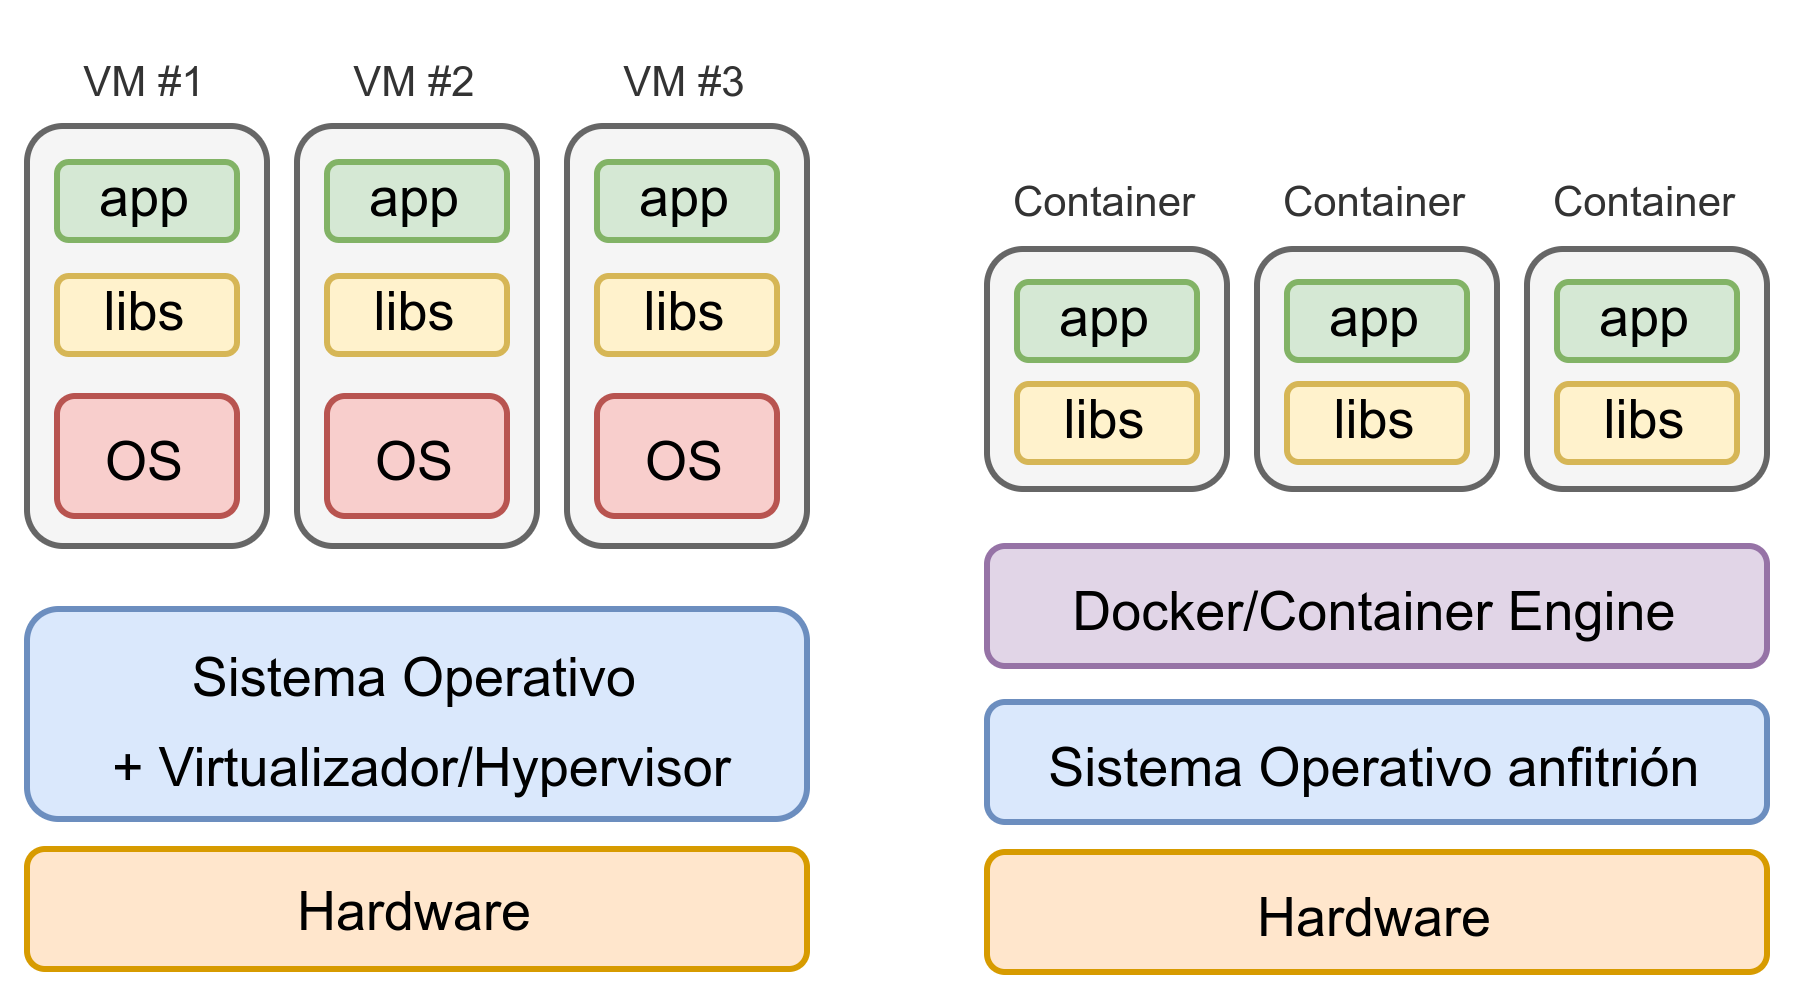
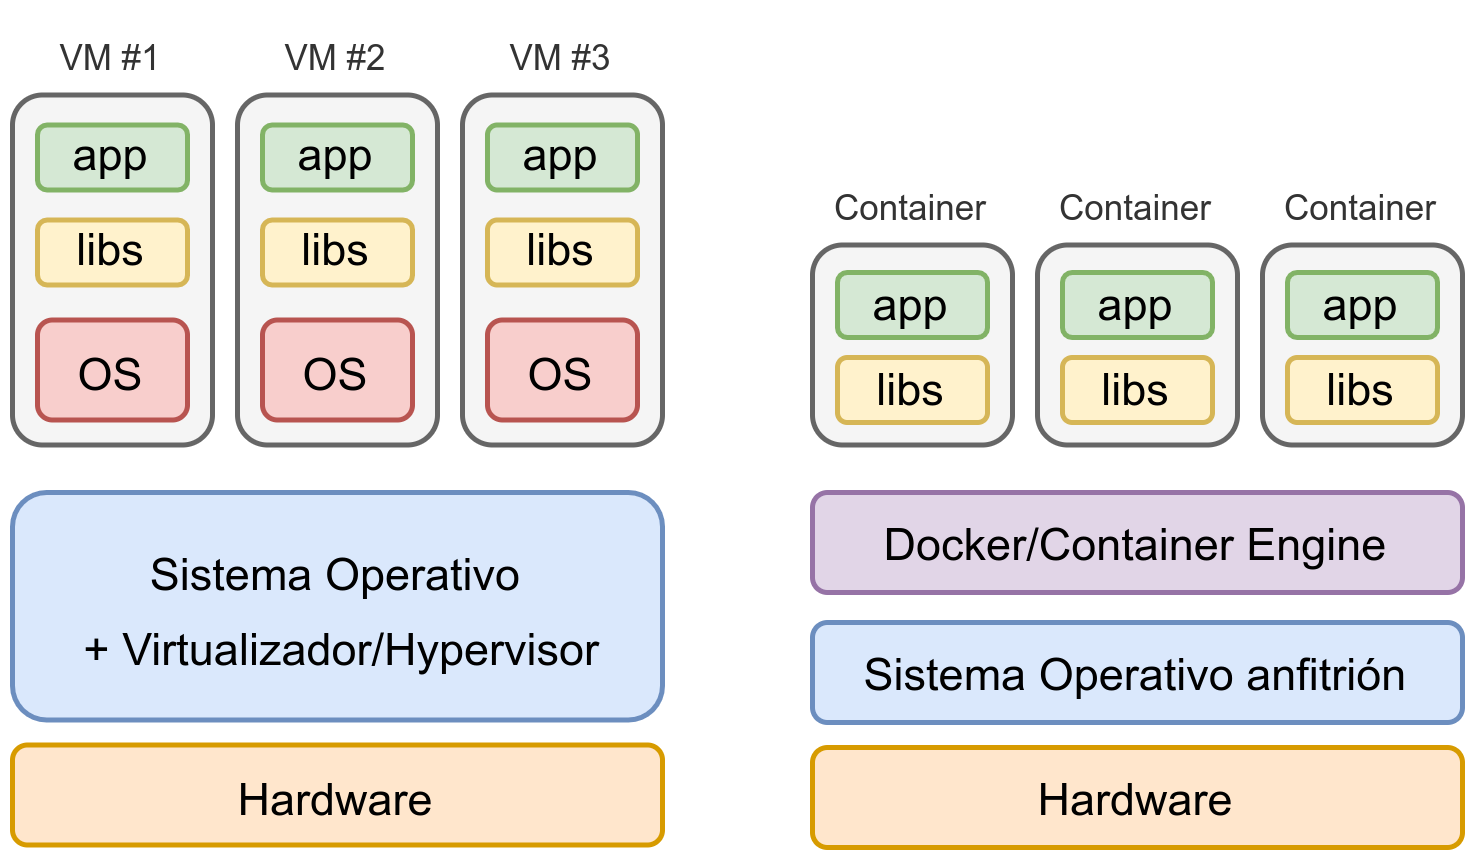
[Docker] Más libro
Añadido más apartados

diff --git a/otros/Docker/docker.tex b/otros/Docker/docker.tex
@@ -1,16 +1,16 @@
 \chapter{Introducción}
 
-Hoy en día es muy habitual hacer uso de un sistema de contenedores, como es \href{https://docs.docker.com/}{Docker}, en el mundo del desarrollo de \textit{software}. Este sistema trae consigo una serie de ventajas que veremos más adelante, que nos permite asegurar, entre otras cosas, que las versiones utilizadas en el entorno de producción es la misma que durante las etapas de desarrollo.
+Hoy en día es muy habitual hacer uso de los sistemas de contenedores, el más conocido es \href{https://docs.docker.com/}{Docker}, en el mundo del desarrollo de \textit{software}. Este sistema trae consigo una serie de ventajas que veremos más adelante, que nos permite asegurar, entre otras cosas, que las versiones utilizadas en el entorno de producción son las mismas que durante las etapas de desarrollo.
 
 En este documento se va a explicar cómo realizar la instalación y configuración de un sistema basado en contenedores Docker para poder arrancar servicios, y ciertas configuraciones que son necesarias conocer.
 
 \chapter{Sistemas de contenedores}
 
-Los sistemas de contenedores son un método de virtualización (conocido como “virtualización a nivel de sistema operativo”), en el que se permite ejecutar sobre una capa virtualizadora del núcleo del sistema operativo, distintas instancias de “espacio de usuario”.
+Los sistemas de contenedores son un método de virtualización (conocido como “virtualización a nivel de sistema operativo”), en el que se permite ejecutar sobre una capa virtualizadora del núcleo del sistema operativo distintas instancias de “espacio de usuario”.
 
 Este “espacio de usuario” (donde se ejecutarán aplicaciones, servicios...) se les denomina \textbf{contenedores}, y aunque pueden ser como un servidor real, están bajo un mecanismo de aislamiento proporcionado por el \textit{kernel} del sistema operativo, y sobre el que se pueden aplicar límites de espacio, recursos de memoria, de acceso a disco...
 
-\infobox{Un contenedor es un espacio de ejecución de servicios al que se les puede aplicar límites de recursos (como la memoria, el acceso a disco...)}
+\infobox{\textbf{Un contenedor es un espacio de ejecución de servicios al que se les puede aplicar límites de recursos (como la memoria, el acceso a disco...)}}
 
 Desde el punto de vista del usuario, que un servicio se ejecute en una máquina virtual o en un contenedor es indistinguible. En cambio, desde el punto de vista de un administrador de sistemas o de un desarrollador, el uso de contenedores trae consigo una serie de ventajas que veremos en apartados posteriores.
 
@@ -25,6 +25,56 @@ Aunque está muy en boga el despliegue de aplicaciones haciendo uso de contenedo
 Ha habido otras tecnologías en Linux, como \href{https://es.wikipedia.org/wiki/OpenVZ}{OpenVz}, pero luego nos centraremos en Docker, ya que es lo más conocido actualmente.
 
 
+\section{Qué es un contenedor y cómo se crea}
+
+Para entender qué es un contenedor y cómo se crea, tenemos que diferenciar distintos conceptos:
+\begin{itemize}
+    \item \textbf{Imagen Docker}
+    \item \textbf{Contenedor Docker}
+\end{itemize}
+
+A continuación se van a detallar en profundidad.
+
+\subsection{Imágenes Docker}
+
+Para crear un contenedor necesitamos hacer uso de una \textbf{“imagen”, que es un archivo inmutable (no modificable) que contiene el código de la aplicación que queremos ejecutar y todas sus dependencias necesarias}, para que pueda ser ejecutada de manera rápida y confiable independientemente del entorno en el que se encuentre.
+
+Las imágenes, debido a su origen \textbf{sólo-lectura}, se pueden considerar como \textbf{“plantillas”}, que son la representación de una aplicación y el entorno necesario para ser ejecutada en un momento específico en el tiempo. \textbf{Esta consistencia es una de las grandes características de Docker}.
+
+\infobox{\textbf{Una imagen contiene el código y las dependencias que se necesita al crear un contenedor para ser ejecutado, independientemente del entorno en el que es ejecutado.}}
+
+Una imagen puede ser creada utilizando otras imágenes como base. Por ejemplo, la imagen de \href{https://hub.docker.com/_/phpmyadmin}{PHPMyAdmin} empaqueta la aplicación PHPMyAdmin sobre la imagen \textbf{PHP} (versión 8.1-apache), que a su vez hace uso de la imagen \textbf{Debian} (versión 11-slim).
+
+
+\begin{center}
+    \includegraphics[width=0.9\linewidth]{img/docker/imagen1.png}
+    \captionof{figure}{Jerarquía de imágenes usadas por PHPMyAdmin. \href{https://hub.docker.com/layers/library/phpmyadmin/latest/images/sha256-79e38dd8b2ab0e92505aa92040fa49dce4fa921a977b6ce4d030a63b4f120009?context=explore}{Fuente}}
+\end{center}
+
+Podemos utilizar imágenes públicas descargadas a través de un \textbf{\textit{registry}} público, que no es otra cosa que un repositorio de imágenes subidas por la comunidad. El \textit{registry} principal más utilizado es \href{https://hub.docker.com/}{Docker Hub}.
+
+\infobox{\textbf{Las imágenes Docker  pueden ser públicas o privadas y se almacenan en un repositorio llamado \underline{registry}, siendo el más conocido Docker Hub}}
+
+\textbf{Se pueden crear nuestras propias imágenes privadas}, que pueden ser almacenadas en nuestros equipos o a través de un \textbf{registry privado} que podemos crear (también existen servicios de pago que nos dan esta posibilidad).
+
+
+\subsection{Contenedores Docker}
+Un contenedor Docker es un \textbf{entorno de tiempo de ejecución virtualizado donde los usuarios pueden aislar aplicaciones}. Estos contenedores son unidades compactas y portátiles a las que se les puede aplicar un sistema de limitación de recursos.
+
+\infobox{\textbf{Un contenedor se crea a través de una imagen, es la versión ejecutable de la misma que se crea en un entorno virtualizado}}
+
+Un contenedor se crea a través de una imagen y es la versión ejecutable de la misma. Lo que se hace es crear una capa de escritura sobre la imagen inmutable, donde se podrá escribir datos. Se pueden crear un número ilimitados de contenedores haciendo uso de la misma imagen base.
+
+\vspace{-15pt}
+\begin{center}
+    \includegraphics[width=0.6\linewidth]{img/docker/contenedor.png}
+    \captionof{figure}{Imagen “interna” de un contenedor}
+\end{center}
+\vspace{-15pt}
+
+Más adelante se detallará el \hyperlink{ciclo_de_vida_contenedor}{ciclo de vida de un contenedor} y cómo esa capa de escritura se pierde al eliminar el contenedor. Se puede hacer que esos datos no se pierdan utilizando \hyperlink{volumen_persistente_datos}{un volumen persistente de datos}.
+
+
 \section{Contenedores vs. Máquinas virtuales}
 
 El uso de máquinas virtuales está muy extendido gracias a que cada vez es más sencillo crearlas. Esto no quiere decir que siempre sea la mejor opción, por lo que  se va a realizar una comparativa teniendo en cuenta distintos aspectos a la hora de realizar un desarrollo con máquinas virtuales y con sistemas de contenedores.
@@ -34,12 +84,14 @@ El uso de máquinas virtuales está muy extendido gracias a que cada vez es más
 
 La creación de máquinas virtuales (a través de sistemas como VirtualBox) nos permite crear entornos aislados en los que poder instalar el Sistema Operativo que más nos interese y con ello poder instalar el software y los servicios que necesitemos.
 
-Esto supone una gran ventaja, pero a la vez un gasto de recursos que podríamos utilizar para hacer uso en los servicios que queremos correr.
+Las máquinas virtuales se virtualizan a nivel de hardware, donde debe existir un Sistema Operativo con Hypervisor que permita dicha virtualización. Por otro lado, los contenedores se virtualizan en la capa de aplicación, haciendo que este sistema sea mucho más ligero, permitiendo utilizar esos recursos en los servicios que necesitamos hacer funcionar dentro de los contenedores.
 
+\vspace{-15pt}
 \begin{center}
-    \includegraphics[width=0.9\linewidth]{img/docker/docker\_vs\_vm.png}
+    \includegraphics[width=0.85\linewidth]{img/docker/docker\_vs\_vm.png}
     \captionof{figure}{Infraestructura Máquinas Virtuales vs Docker}
 \end{center}
+\vspace{-15pt}
 
 
 En la imagen se puede apreciar una comparativa diferenciando cómo quedaría una infraestructura de 3 aplicaciones levantadas en distintas máquinas virtuales o en distintos contenedores.
@@ -86,7 +138,7 @@ En un entorno con contenedores, al igual que se ha comentado antes, esto no es p
 
 Ligado a todo lo anterior, realizar el despliegue de un entorno de desarrollo/producción es más rápido utilizando contenedores, dando igual el sistema operativo en el que nos encontremos.
 
-\infobox{El despliegue con contenedores es más rápido.}
+\infobox{\textbf{El despliegue con contenedores es más rápido.}}
 
 Más adelante se verá cómo realizar el despliegue de distintos servicios haciendo uso de un único comando.
 
@@ -111,7 +163,7 @@ Al igual que sucede con otro tipo de \textit{software},  para que Docker haga us
 
 
 \begin{center}
-    \includegraphics[width=0.6\linewidth]{img/docker/docker_interfaces.png}
+    \includegraphics[width=0.75\linewidth]{img/docker/docker_interfaces.png}
     \captionof{figure}{Tecnologías usadas por Docker. Fuente: \href{https://en.wikipedia.org/wiki/File:Docker-linux-interfaces.svg}{Wikipedia}}
 \end{center}
 
@@ -212,9 +264,6 @@ Y para entender lo que hace el comando, los parámetros son:
     \item \textbf{docker}: cliente de consola para hacer uso de Docker
     \item \textbf{run}: Ejecuta un comando en un nuevo contenedor
     \item \textbf{-p 80:80}: Publica en el puerto 80 del servidor el puerto 80 utilizado en el contenedor. Se puede pensar que es como hacer un \textbf{port-forward} en un firewall.
-    \begin{itemize}
-        \item Si fuese \textbf{-p 8080:80}, publicaría en el puerto 8080 del equipo el puerto 80 del contenedor.
-    \end{itemize}
     \item \textbf{httpd}: es la imagen del contenedor que se va a arrancar. En este caso, la imagen del servidor \href{https://hub.docker.com/_/httpd}{Apache HTTPD}.
 \end{itemize}
 
@@ -226,8 +275,10 @@ CONTAINER ID   IMAGE     COMMAND       CREATED         STATUS         PORTS     
 a1c3362b0d6c   httpd     "httpd-..."   3 seconds ago   Up 2 seconds   0.0.0.0:80->80/tcp  great
 \end{mycode}
 
+En la columna PORTS se puede apreciar cómo aparece que se ha levantado el puerto  \textbf{ \texttt{0.0.0.0:80} } (escucha en el puerto 80 para cualquier IP del sistema operativo) que es una redirección al puerto \textbf{\texttt{80/TCP}} interno del contenedor.
 
-\section{Contenedores en \textit{background} y con más opciones}
+
+\section{Contenedores en \textit{background} y más opciones}
 Tal como se puede ver en el ejemplo anterior, el contenedor se queda en primer plano, viendo los logs del Apache. Esto para ver qué es lo que está sucendiendo durante el desarrollo puede ser útil, pero lo ideal es que el contenedor arranque en modo \textbf{\textit{background}}, y cuando necesitemos vayamos a ver los logs.
 
 
@@ -246,11 +297,38 @@ root@vega:~# docker run --name mi-apache -d -p 8080:80 httpd
 \end{itemize}
 
 
-\section{Ciclo de vida de un contenedor}
-
+\hypertarget{volumen_persistente_datos}{}
 \section{Volumen persistente de datos}
+Hasta ahora hemos levantado un contenedor a través de una imagen que levanta el servicio Apache, mostrando su página por defecto. Podríamos escribir en el contenedor la página HTML que nos interesase, pero hay que entender que \textbf{los datos de un contenedor desaparecen cuando el contenedor se elimina}.
+
+Para que los cambios realizados dentro de un contenedor se mantengan, tenemos que hacer uso de los denominados \textbf{volúmenes de datos}. Esto no es más que hacer un montaje de una ruta del disco duro del sistema operativo dentro de una ruta del contenedor.
 
 
-\section{Dónde obtener servicios Docker}
+Estos volúmenes que le asignamos al contenedor pueden ser de dos tipos:
+\begin{itemize}
+    \item \textbf{Sólo lectura}: Nos puede interesar asignar un volumen de sólo lectura cuando le pasamos ficheros de configuración o la propia web que queremos visualizar.
+    \item \textbf{Lectura-Escritura}: En este caso se podrá escribir en el volumen. Por ejemplo, directorio donde una base de datos guarda la información o una web donde deja imágenes subidas por usuarios.
+\end{itemize}
+
+De esta manera, tendremos que asignar el número de volúmenes necesarios a cada contenedor dependiendo de la imagen utilizada, el servicio que se levanta y lo que queremos hacer con los datos que le asignemos o generemos en el contenedor.
+
+En la siguiente imagen se puede ver una infraestructura con dos contenedores y dos volúmenes:
+\begin{itemize}
+    \item \textbf{Contenedor Web}: Se le asigna un volumen en modo \textbf{sólo lectura} cuya ruta original está en \configdir{/opt/www-data}, que dentro del contenedor está en \configdir{/var/www/html}.
+    \item \textbf{Contenedor MySQL}: Dado que los datos de la base de datos deben ser guardados, en este caso se le asigna un volumen que permite escritura. Por lo tanto, lo que se crea dentro del contenedor en \configdir{/var/lib/mysql} realmente se estará guardando en el sistema operativo anfitrión en \configdir{/opt/mysql-data}
+\end{itemize}
+\begin{center}
+    \includegraphics[width=0.65\linewidth]{img/docker/volumes.png}
+    \captionof{figure}{Ejemplo de dos volúmenes asignados a distintos volúmenes}
+\end{center}
+
+\subsection{Crear volumen en modo lectura}
+Siguiendo con el ejemplo anterior,
+
+
+\hypertarget{ciclo_de_vida_contenedor}{}
+\section{Ciclo de vida de un contenedor en Docker}
+Un contenedor
+
 
 
